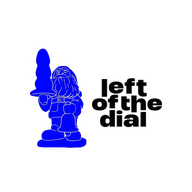
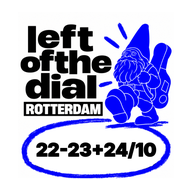
Nieuw app-icoon: LOTD-poster met 22-23+24/10
Claude-Session: https://claude.ai/code/session_019qcWKoCY2cqrves8f6ed1n

diff --git a/sw.js b/sw.js
@@ -1,5 +1,5 @@
 // Offline: pagina's en schema uit de cache als er geen netwerk is.
-const C="lotd-v11";
+const C="lotd-v12";
 const FILES=["./","index.html","route.html","route-data.js","all-acts.js","extras.js","weather.js","logo.png","logo-dark.png","manifest.webmanifest","icon-192.png","icon-512.png","icon-maskable-512.png","apple-touch-icon.png"];
 self.addEventListener("install",e=>{e.waitUntil(caches.open(C).then(c=>c.addAll(FILES)).then(()=>self.skipWaiting()))});
 self.addEventListener("activate",e=>{e.waitUntil(caches.keys().then(ks=>Promise.all(ks.filter(k=>k!==C).map(k=>caches.delete(k)))).then(()=>self.clients.claim()))});
